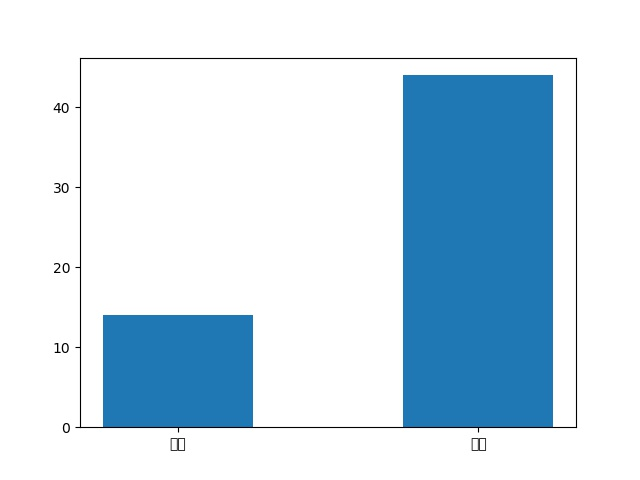
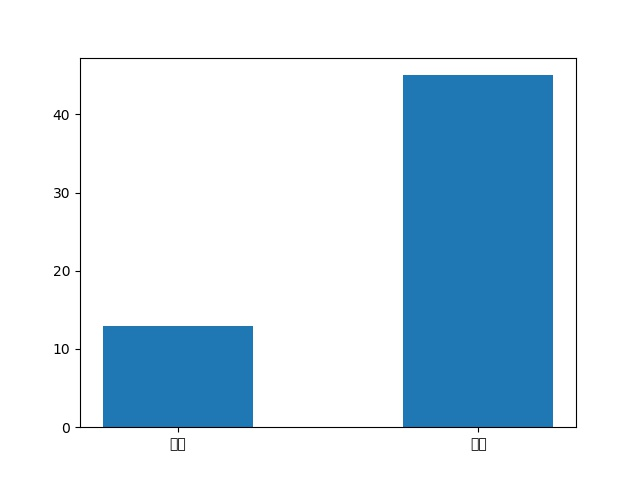
绘图显示中文

diff --git a/python/crawler/com/xzy/python/crawleroflagou/lagou.py b/python/crawler/com/xzy/python/crawleroflagou/lagou.py
@@ -6,6 +6,7 @@ import math
 import time
 import pandas as pd
 import matplotlib.pyplot as plt
+import matplotlib
 import jieba
 from wordcloud import WordCloud
 
@@ -162,12 +163,15 @@ if __name__ == '__main__':
 
     # 将学历不限的职位要求认定为最低学历:大专
     df['学历要求'] = df['学历要求'].replace('不限', '大专')
-
+    # # 设置matplotlib正常显示中文和负号
+    # mpl.rcParams['font.sans-serif'] = ['SimHei']  # 用黑体显示中文
+    # mpl.rcParams['axes.unicode_minus'] = False  # 正常显示负号
+    zhfont1 = matplotlib.font_manager.FontProperties(fname='/Users/xzy/Downloads/simhei.ttf')
     # 绘制频率直方图并保存
     plt.hist(list(df['月工资']))
-    plt.xlabel('工资 (千元)')
-    plt.ylabel('频数')
-    plt.title("工资直方图")
+    plt.xlabel('工资 (千元)', fontproperties=zhfont1)
+    plt.ylabel('频数', fontproperties=zhfont1)
+    plt.title("工资直方图", fontproperties=zhfont1)
     plt.savefig('image/salary.jpg')
     plt.show()
 
@@ -197,24 +201,24 @@ if __name__ == '__main__':
     plt.savefig('image/education.jpg')
     plt.show()
 
-    # 绘制词云,将职位福利中的字符串汇总
-    text = ''
-    for line in df['职位福利']:
-        text += line
-        # 使用jieba模块将字符串分割为单词列表
-    cut_text = ' '.join(jieba.cut(text))
-    # color_mask = imread('cloud.jpg')  #设置背景图
-    cloud = WordCloud(
-        background_color='white',
-        # 对中文操作必须指明字体
-        font_path='yahei.ttf',
-        # mask = color_mask,
-        max_words=1000,
-        max_font_size=100
-    ).generate(cut_text)
-
-    # 保存词云图片
-    cloud.to_file('image/word_cloud.jpg')
-    plt.imshow(cloud)
-    plt.axis('off')
-    plt.show()
+    # # 绘制词云,将职位福利中的字符串汇总
+    # text = ''
+    # for line in df['职位福利']:
+    #     text += line
+    #     # 使用jieba模块将字符串分割为单词列表
+    # cut_text = ' '.join(jieba.cut(text))
+    # # color_mask = imread('cloud.jpg')  #设置背景图
+    # cloud = WordCloud(
+    #     background_color='white',
+    #     # 对中文操作必须指明字体
+    #     font_path='yahei.ttf',
+    #     # mask = color_mask,
+    #     max_words=1000,
+    #     max_font_size=100
+    # ).generate(cut_text)
+    #
+    # # 保存词云图片
+    # cloud.to_file('image/word_cloud.jpg')
+    # plt.imshow(cloud)
+    # plt.axis('off')
+    # plt.show()

diff --git a/python/crawler/com/xzy/python/crawleroflagou/testmatplotlib.py b/python/crawler/com/xzy/python/crawleroflagou/testmatplotlib.py
@@ -10,10 +10,11 @@ import matplotlib
 
 zhfont1 = matplotlib.font_manager.FontProperties(fname='/Users/xzy/Downloads/simhei.ttf')
 
-d = {1, 2, 6, 5, 4, 8, 4, 2}
-plt.hist(list(d))
+d = [1, 2, 6, 5, 4, 8, 4, 2, 4]
+print(type(d))
+plt.hist(d)
 plt.xlabel(u'工资 (千元)', fontproperties=zhfont1)
 plt.ylabel(u'频数', fontproperties=zhfont1)
 plt.title(u"工资直方图", fontproperties=zhfont1)
-plt.savefig('test.jpg')
+plt.savefig('image/test.jpg')
 plt.show()
